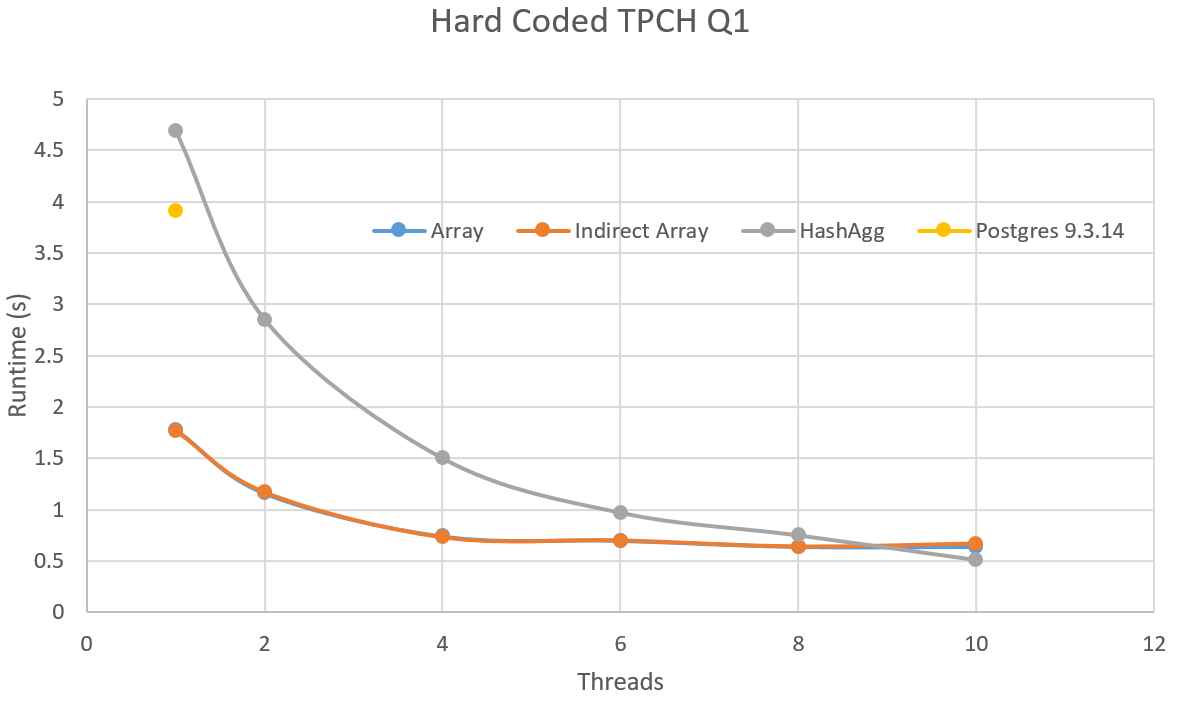
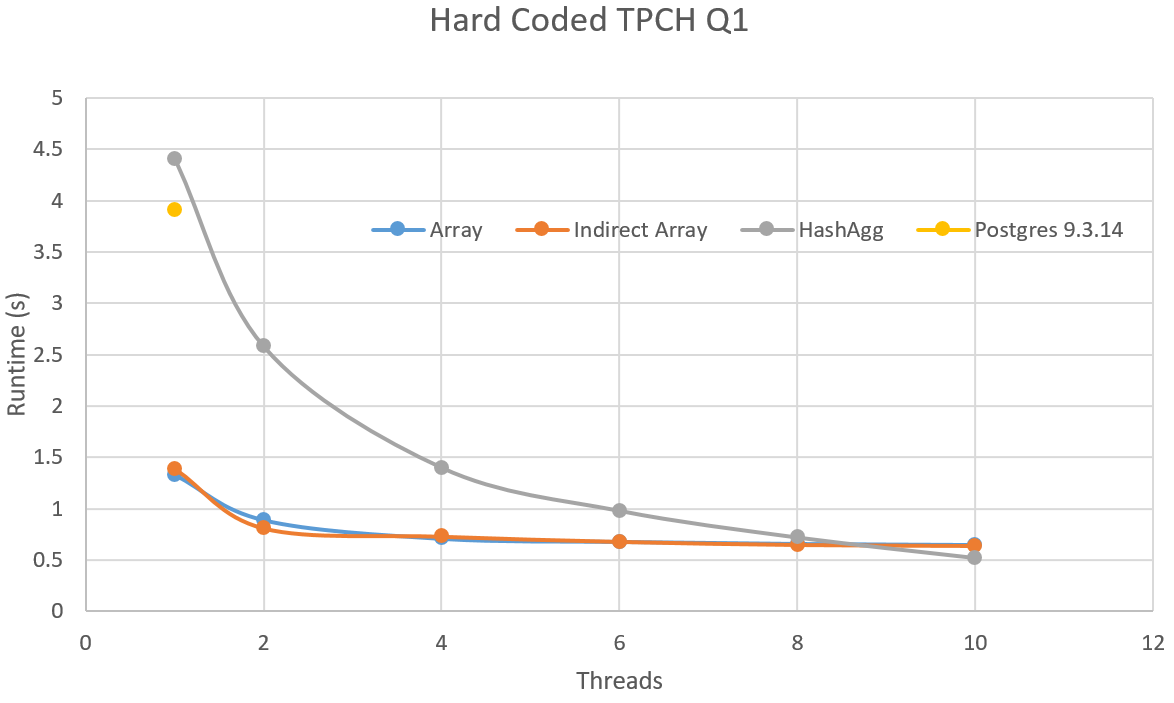
Tune IO, replace result

diff --git a/README.md b/README.md
@@ -7,11 +7,11 @@ This is a testing ground for high performance execution ideas. The language is "
 ![Scaling Performance Result](https://github.com/llonergan/tpch-hand-coded-golang/blob/master/images/scaling-tpchq1-golang.PNG)
 
 ```
-Q1 Execution Time (including IO) =   0.57s
+Q1 Execution Time (including IO) =   1.33s
 Ran with: An array based aggregator with a max of 256 unique values per grouping attribute
 A F   37734107  56586554400.73  53758257134.87  55909065222.83   25.52 38273.13    0.05    1478493
 N F     991417   1487504710.38   1413082168.05   1469649223.19   25.52 38284.47    0.05      38854
-N O   73112824 109655889346.68 104174442729.04 108345127221.17   25.50 38248.15    0.05    2866959
+N O   73112824 109655889346.67 104174442729.04 108345127221.17   25.50 38248.15    0.05    2866959
 R F   37719753  56568041380.90  53741292684.60  55889619119.83   25.51 38250.85    0.05    1478870
 ```
 
